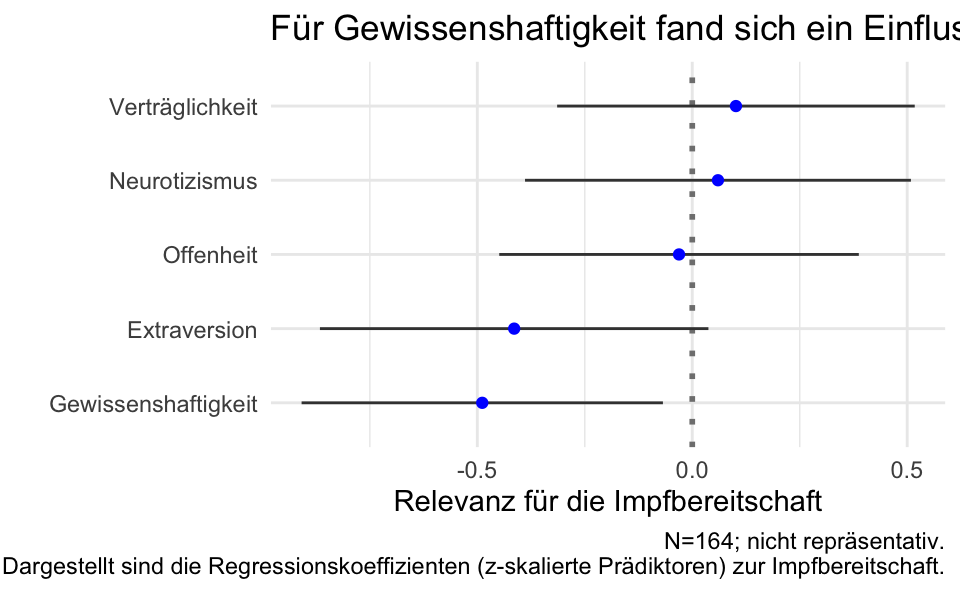
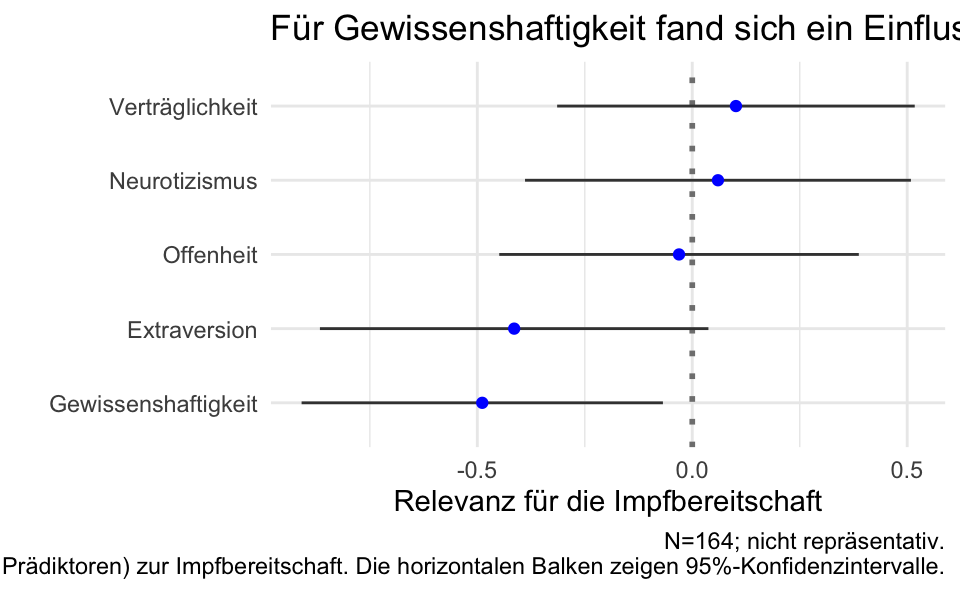
update

Changed region(s): [[0.0, 0.941, 1.0, 0.9713]]

diff --git a/content/post/2021-05-30-analyse-der-impfbereitschaft-von-studentis/index.html b/content/post/2021-05-30-analyse-der-impfbereitschaft-von-studentis/index.html
@@ -50,14 +50,16 @@ output:
 <li><a href="#korrespondenz-kontingenz-von-extraversion-und-impfbereitschaft"><span class="toc-section-number">6.10</span> Korrespondenz (Kontingenz) von Extraversion und Impfbereitschaft</a></li>
 <li><a href="#waffel-diagramm"><span class="toc-section-number">6.11</span> Waffel-Diagramm</a></li>
 <li><a href="#font-awesome-visualisierung-pictogramm"><span class="toc-section-number">6.12</span> Font-Awesome-Visualisierung (Pictogramm)</a></li>
-<li><a href="#fazit"><span class="toc-section-number">6.13</span> Fazit</a></li>
+<li><a href="#was-für-ein-aufwand"><span class="toc-section-number">6.13</span> Was für ein Aufwand …</a></li>
+<li><a href="#fazit"><span class="toc-section-number">6.14</span> Fazit</a></li>
 </ul></li>
 <li><a href="#visualisierung-2"><span class="toc-section-number">7</span> Visualisierung 2</a>
 <ul>
 <li><a href="#visualisierung-der-regressionskoeffizienten"><span class="toc-section-number">7.1</span> Visualisierung der Regressionskoeffizienten</a></li>
 <li><a href="#variante-a"><span class="toc-section-number">7.2</span> Variante A</a></li>
 <li><a href="#variante-b"><span class="toc-section-number">7.3</span> Variante B</a></li>
-<li><a href="#fazit-1"><span class="toc-section-number">7.4</span> Fazit</a></li>
+<li><a href="#variante-c-mit-bordmitteln"><span class="toc-section-number">7.4</span> Variante C: Mit Bordmitteln</a></li>
+<li><a href="#fazit-1"><span class="toc-section-number">7.5</span> Fazit</a></li>
 </ul></li>
 </ul>
 </div>
@@ -670,7 +672,8 @@ name_order</code></pre>
 <p>Zur Installation von Font Awesome:</p>
 <pre class="r"><code>library(extrafont)
 
-install_fa_fonts()
+library(waffle)
+waffle::install_fa_fonts()
 font_import(paths = &quot;/Users/sebastiansaueruser/Rlibs/waffle/fonts/&quot;, prompt = F)</code></pre>
 <pre class="r"><code>waffle(willingness_low,
        flip = TRUE,
@@ -746,8 +749,12 @@ d8a</code></pre>
 img2 &lt;- image_trim(img)
 image_write(img2, path = &quot;impf2.png&quot; )</code></pre>
 </div>
-<div id="fazit" class="section level2" number="6.13">
-<h2><span class="header-section-number">6.13</span> Fazit</h2>
+<div id="was-für-ein-aufwand" class="section level2" number="6.13">
+<h2><span class="header-section-number">6.13</span> Was für ein Aufwand …</h2>
+<p>Der vergleichsweise hohe Aufwand für diese Visualisierung ist aufschlussreich. Der eine Grund ist in der Verwendung eines ungewöhnlichen Geoms – Pictogramm – zu suchen. Der zweite Grund, und das ist der Hauptgrund, ist, dass die <em>Datenaufbereitung</em> bzw. <em>Datenumformung</em> der eigentliche Zeitfresser gewesen ist. Vielleicht noch pointierter formuliert: Es hat gedauert, bis die Datenlage verstanden war, und verstanden war, was eigentlich dargestellt werden soll.</p>
+</div>
+<div id="fazit" class="section level2" number="6.14">
+<h2><span class="header-section-number">6.14</span> Fazit</h2>
 <p>Die wissenschaftliche Belastbarkeit der Studie ist fraglich. Mehr noch: Die Nützlichkeit eines Waffel-Diagramms (oder Pictogramms) ist ebenfalls fragwürdig. Wahrnehmungspsychologisch sind andere Darstellungsformen – etwa ein Balkendiagramme für Häufigkeiten – besser geeignet. Darüber hinaus: Die Dichotomisierung der Daten, also der Verlust von Skaleninformation ist statistisch zumeist nicht zu begründen. Alles in allem steht in dieser Analyse der didaktische Blick zur Frage “Wie erstelle ich ein Diagramm, das unterhält?” im Vordergrund. Die wissenschaftlichen “Kosten” eines solchen Vorgehens spielten hier keine Rolle. Entsprechend eingeschränkt ist die Interpretierbarkeit dieser Analyse bzw. dieses Diagramms. Nur mit äußerster Vorsicht zu interpretieren!</p>
 </div>
 </div>
@@ -798,7 +805,7 @@ preds_lm2 &lt;- setdiff(vars_lm2, &quot;willingness&quot;)</code></pre>
   labs(y = &quot;&quot;,
        x = &quot;Relevanz für die Impfbereitschaft&quot;,
        title = &quot;Für Gewissenshaftigkeit fand sich ein Einfluss auf die Impfbereitschaft&quot;,
-       caption = &quot;N=164; nicht repräsentativ.\nDargestellt sind die Regressionskoeffizienten (z-skalierte Prädiktoren) zur Impfbereitschaft.&quot;) +
+       caption = &quot;N=164; nicht repräsentativ.\nDargestellt sind die Regressionskoeffizienten (z-skalierte Prädiktoren) zur Impfbereitschaft. Die horizontalen Balken zeigen 95%-Konfidenzintervalle.&quot;) +
   theme_minimal()</code></pre>
 <p><img src="unnamed-chunk-64-1.png" width="100%" /></p>
 </div>
@@ -810,11 +817,26 @@ preds_lm2 &lt;- setdiff(vars_lm2, &quot;willingness&quot;)</code></pre>
              show_p_values = FALSE,
              facet_row = NULL) +
   labs(title = &quot;Für Gewissenshaftigkeit fand sich ein Einfluss auf die Impfbereitschaft&quot;,
-       caption = &quot;N=164; nicht repräsentativ.\nDargestellt sind die Regressionskoeffizienten (z-skalierte Prädiktoren) zur Impfbereitschaft.&quot;)</code></pre>
+       caption = &quot;N=164; nicht repräsentativ.\nDargestellt sind die Regressionskoeffizienten (z-skalierte Prädiktoren) zur Impfbereitschaft. Die horizontalen Balken zeigen 95%-Konfidenzintervalle.&quot;)</code></pre>
 <p><img src="unnamed-chunk-65-1.png" width="100%" /></p>
 </div>
-<div id="fazit-1" class="section level2" number="7.4">
-<h2><span class="header-section-number">7.4</span> Fazit</h2>
+<div id="variante-c-mit-bordmitteln" class="section level2" number="7.4">
+<h2><span class="header-section-number">7.4</span> Variante C: Mit Bordmitteln</h2>
+<p>Man hätte das Diagramm auch ohne Extra-Paket erstellen können, wenn auch etwas weniger poliert (wenn man Extraufwand meiden möchte):</p>
+<pre class="r"><code>lm2 %&gt;% 
+  tidy()</code></pre>
+<pre><code>## # A tibble: 6 x 5
+##   term        estimate std.error statistic  p.value
+##   &lt;chr&gt;          &lt;dbl&gt;     &lt;dbl&gt;     &lt;dbl&gt;    &lt;dbl&gt;
+## 1 (Intercept)   8.10       0.206    39.3   2.01e-83
+## 2 extra        -0.414      0.229    -1.81  7.21e- 2
+## 3 neuro         0.0598     0.227     0.263 7.93e- 1
+## 4 agree         0.102      0.211     0.483 6.30e- 1
+## 5 cons         -0.489      0.213    -2.30  2.30e- 2
+## 6 open         -0.0308     0.212    -0.145 8.85e- 1</code></pre>
+</div>
+<div id="fazit-1" class="section level2" number="7.5">
+<h2><span class="header-section-number">7.5</span> Fazit</h2>
 <p>Diese Art der Darstellung ist wissenschaftlich gut geeignet, verlangt aber höhere Fachkentnisse von den Betrachtis.</p>
 </div>
 </div>
